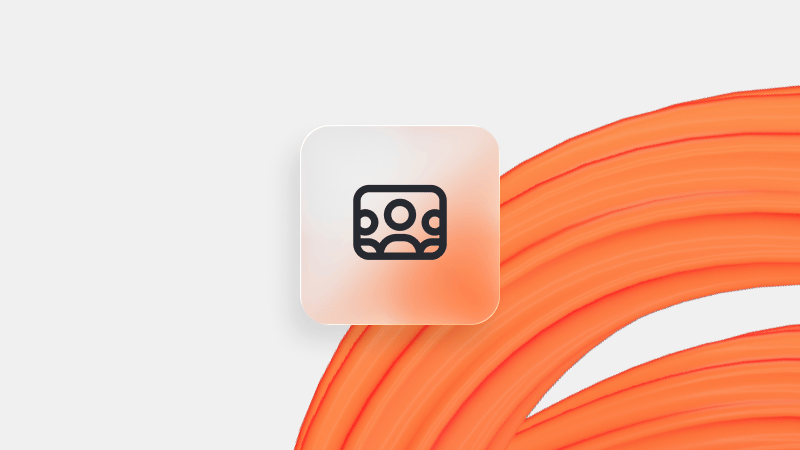
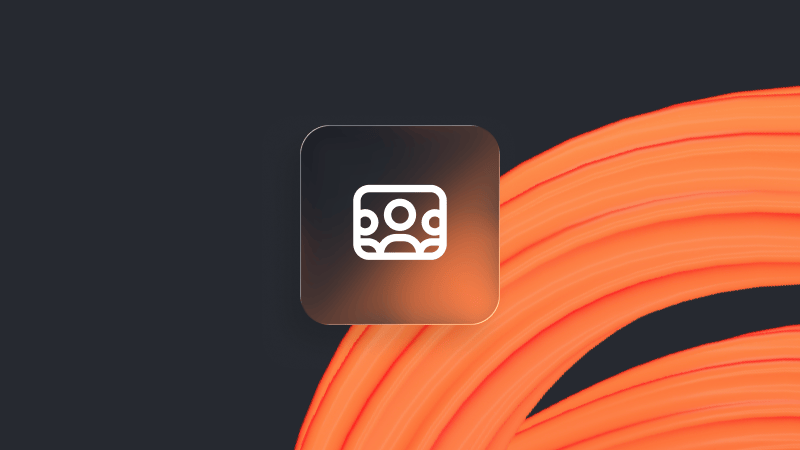
GITBOOK-873: Fixing some card images

diff --git a/publishing-documentation/setting-a-custom-subdirectory/README.md b/publishing-documentation/setting-a-custom-subdirectory/README.md
@@ -13,5 +13,5 @@ One reason to do this is so that your docs URL is formatted in a consistent way 
 
 To configure a subdirectory, you'll need to set things up in your website's backend, then finalize the process in your GitBook site settings.
 
-<table data-card-size="large" data-view="cards"><thead><tr><th></th><th data-hidden data-card-target data-type="content-ref"></th><th data-hidden data-card-cover data-type="image">Cover image</th><th data-hidden data-type="image">Cover image (dark)</th><th data-hidden data-type="image">Cover image (dark)</th><th data-hidden data-card-cover-dark data-type="image">Cover image (dark)</th></tr></thead><tbody><tr><td>Configuring a subdirectory with Cloudflare</td><td><a href="configuring-a-subdirectory-with-cloudflare.md">configuring-a-subdirectory-with-cloudflare.md</a></td><td><a href="../../.gitbook/assets/Cloudflare.png">Cloudflare.png</a></td><td><a href="../../.gitbook/assets/Cloudflare (1).svg">Cloudflare (1).svg</a></td><td><a href="../../.gitbook/assets/Cloudflare (1).svg">Cloudflare (1).svg</a></td><td><a href="../../.gitbook/assets/Cloudflare (1).png">Cloudflare (1).png</a></td></tr><tr><td>Configuring a subdirectory with Vercel</td><td><a href="configuring-a-subdirectory-with-vercel.md">configuring-a-subdirectory-with-vercel.md</a></td><td><a href="../../.gitbook/assets/Vercel.png">Vercel.png</a></td><td><a href="../../.gitbook/assets/Vercel (1).svg">Vercel (1).svg</a></td><td><a href="../../.gitbook/assets/Vercel (1).svg">Vercel (1).svg</a></td><td><a href="../../.gitbook/assets/Vercel (1).png">Vercel (1).png</a></td></tr><tr><td>Configuring a subdirectory with AWS</td><td><a href="configuring-a-subdirectory-with-aws.md">configuring-a-subdirectory-with-aws.md</a></td><td><a href="../../.gitbook/assets/AWS.png">AWS.png</a></td><td></td><td><a href="../../.gitbook/assets/AWS - dark.png">AWS - dark.png</a></td><td><a href="../../.gitbook/assets/AWS (1).png">AWS (1).png</a></td></tr></tbody></table>
+<table data-view="cards"><thead><tr><th></th><th data-hidden data-card-target data-type="content-ref"></th><th data-hidden data-card-cover data-type="image">Cover image</th><th data-hidden data-type="image">Cover image (dark)</th><th data-hidden data-type="image">Cover image (dark)</th><th data-hidden data-card-cover-dark data-type="image">Cover image (dark)</th></tr></thead><tbody><tr><td>Configuring a subdirectory with Cloudflare</td><td><a href="configuring-a-subdirectory-with-cloudflare.md">configuring-a-subdirectory-with-cloudflare.md</a></td><td><a href="../../.gitbook/assets/Cloudflare.png">Cloudflare.png</a></td><td><a href="../../.gitbook/assets/Cloudflare (1).svg">Cloudflare (1).svg</a></td><td><a href="../../.gitbook/assets/Cloudflare (1).svg">Cloudflare (1).svg</a></td><td><a href="../../.gitbook/assets/Cloudflare (1).png">Cloudflare (1).png</a></td></tr><tr><td>Configuring a subdirectory with Vercel</td><td><a href="configuring-a-subdirectory-with-vercel.md">configuring-a-subdirectory-with-vercel.md</a></td><td><a href="../../.gitbook/assets/Vercel.png">Vercel.png</a></td><td><a href="../../.gitbook/assets/Vercel (1).svg">Vercel (1).svg</a></td><td><a href="../../.gitbook/assets/Vercel (1).svg">Vercel (1).svg</a></td><td><a href="../../.gitbook/assets/Vercel (1).png">Vercel (1).png</a></td></tr><tr><td>Configuring a subdirectory with AWS</td><td><a href="configuring-a-subdirectory-with-aws.md">configuring-a-subdirectory-with-aws.md</a></td><td><a href="../../.gitbook/assets/AWS.png">AWS.png</a></td><td></td><td><a href="../../.gitbook/assets/AWS - dark.png">AWS - dark.png</a></td><td><a href="../../.gitbook/assets/AWS (1).png">AWS (1).png</a></td></tr></tbody></table>
 

diff --git a/publishing-documentation/publish-a-docs-site/README.md b/publishing-documentation/publish-a-docs-site/README.md
@@ -25,7 +25,7 @@ By default, your site will be published publicly. You can change your site’s v
 
 There are three primary options to choose from when publishing your site:
 
-<table data-view="cards"><thead><tr><th></th><th></th><th></th><th data-hidden data-card-cover data-type="image">Cover image</th><th data-hidden data-card-target data-type="content-ref"></th><th data-hidden data-type="image">Cover image (dark)</th><th data-hidden data-type="image">Cover image (dark)</th><th data-hidden data-card-cover-dark data-type="image">Cover image (dark)</th></tr></thead><tbody><tr><td><strong>Public</strong></td><td>Publish your docs publicly to the web.</td><td></td><td><a href="../../.gitbook/assets/Public.png">Public.png</a></td><td><a href="public-publishing.md">public-publishing.md</a></td><td><a href="../../.gitbook/assets/Public (1).png">Public (1).png</a></td><td></td><td></td></tr><tr><td><strong>Privately with share links</strong></td><td>Publish your docs with private share links.</td><td></td><td><a href="../../.gitbook/assets/Share links (1).png">Share links (1).png</a></td><td><a href="share-links.md">share-links.md</a></td><td></td><td><a href="../../.gitbook/assets/Share links.png">Share links.png</a></td><td></td></tr><tr><td><strong>Authenticated Access</strong></td><td>Protect your published docs behind an OAuth sign in.</td><td></td><td><a href="../../.gitbook/assets/Auth access.png">Auth access.png</a></td><td><a href="../authenticated-access/">authenticated-access</a></td><td></td><td></td><td><a href="../../.gitbook/assets/Auth access (1).png">Auth access (1).png</a></td></tr></tbody></table>
+<table data-view="cards"><thead><tr><th></th><th></th><th></th><th data-hidden data-card-cover data-type="image">Cover image</th><th data-hidden data-card-target data-type="content-ref"></th><th data-hidden data-type="image">Cover image (dark)</th><th data-hidden data-type="image">Cover image (dark)</th><th data-hidden data-card-cover-dark data-type="image">Cover image (dark)</th></tr></thead><tbody><tr><td><strong>Public</strong></td><td>Publish your docs publicly to the web.</td><td></td><td><a href="../../.gitbook/assets/Public (1).png">Public (1).png</a></td><td><a href="public-publishing.md">public-publishing.md</a></td><td><a href="../../.gitbook/assets/Public (1) (1).png">Public (1) (1).png</a></td><td></td><td><a href="../../.gitbook/assets/Public.png">Public.png</a></td></tr><tr><td><strong>Privately with share links</strong></td><td>Publish your docs with private share links.</td><td></td><td><a href="../../.gitbook/assets/Share links (1) (1).png">Share links (1) (1).png</a></td><td><a href="share-links.md">share-links.md</a></td><td></td><td><a href="../../.gitbook/assets/Share links (1).png">Share links (1).png</a></td><td><a href="../../.gitbook/assets/Share links.png">Share links.png</a></td></tr><tr><td><strong>Authenticated Access</strong></td><td>Protect your published docs behind an OAuth sign in.</td><td></td><td><a href="../../.gitbook/assets/Auth access.png">Auth access.png</a></td><td><a href="../authenticated-access/">authenticated-access</a></td><td></td><td></td><td><a href="../../.gitbook/assets/Auth access (1).png">Auth access (1).png</a></td></tr></tbody></table>
 
 ### Delete or unpublish a docs site
 
